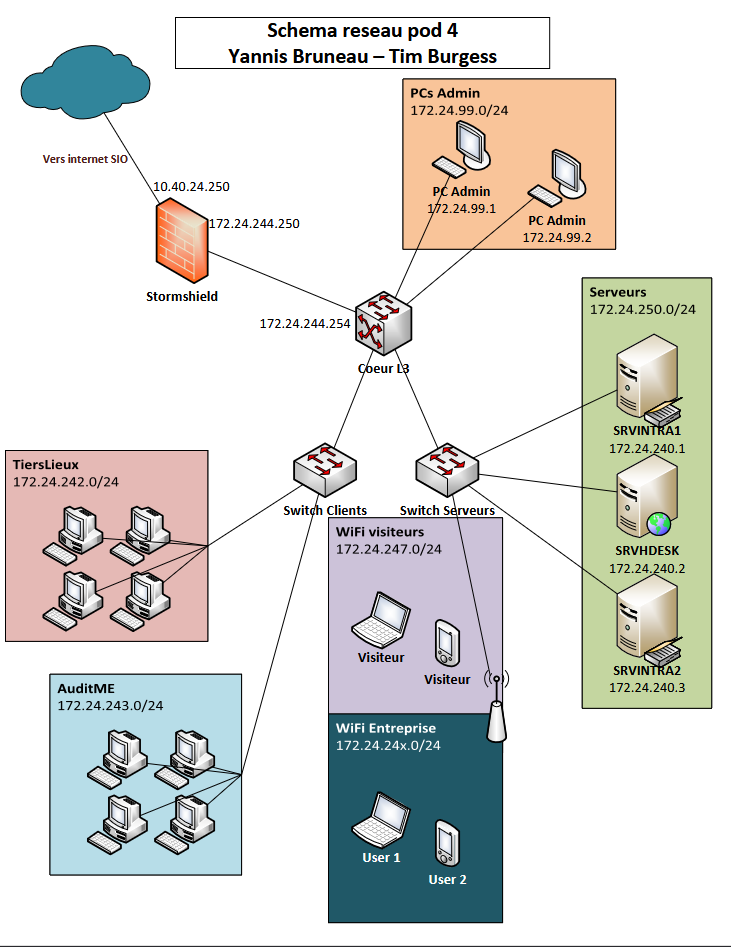
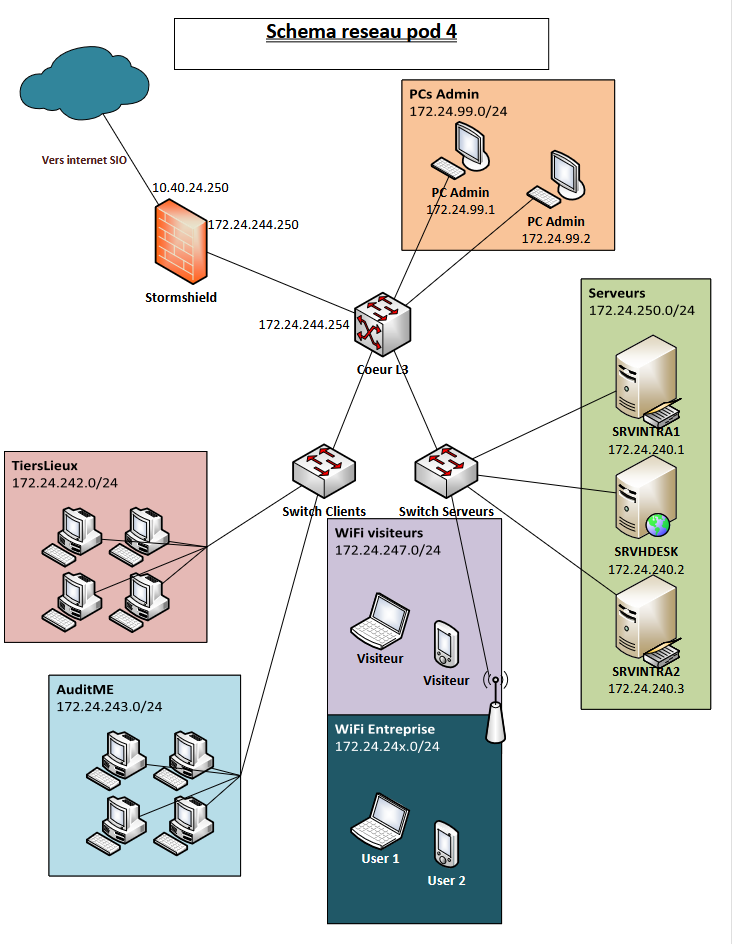
edit readme

diff --git a/README.md b/README.md
@@ -4,4 +4,4 @@ Repo dedie aux scripts et autres fichiers du projet/contexte Tierslieu pour le g
 
 bonjours
 
-![Infra du reseau](http://github.com/metatogithub/tierslieu-pod4/blob/master/sources/infra.png"?raw=true)
+![Infra du reseau](https://raw.githubusercontent.com/MetatoGithub/tierslieu-pod4/refs/heads/main/sources/infra.png)
